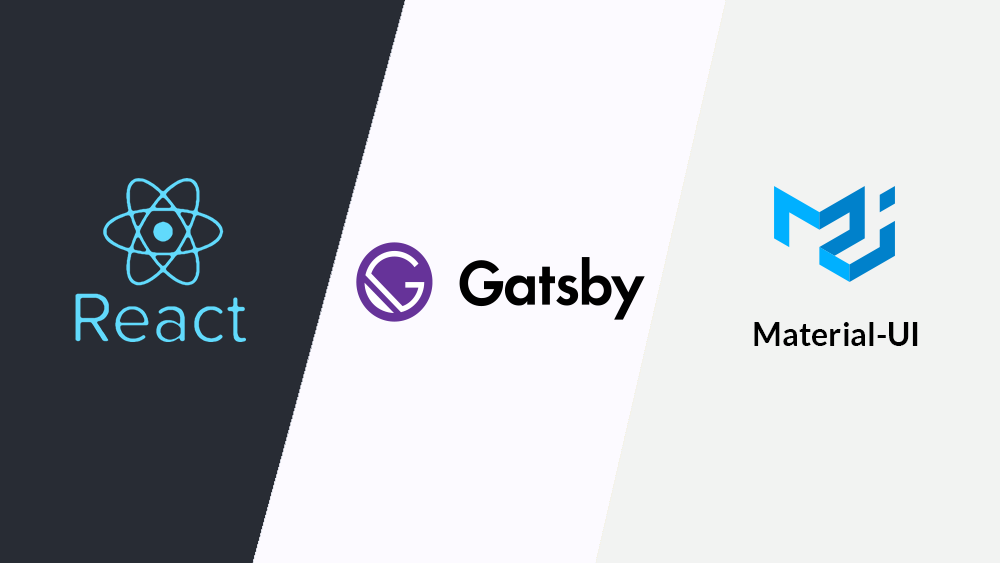
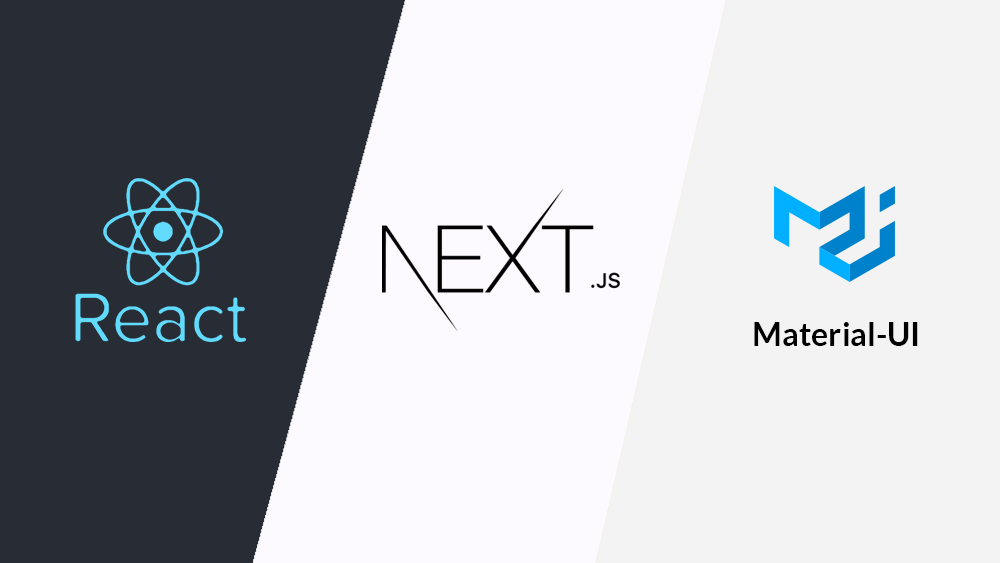
Replace card4 image

Changed region(s): [[0.341, 0.3623, 0.651, 0.5737]]

diff --git a/pages/index.js b/pages/index.js
@@ -141,7 +141,7 @@ export default function HomePage() {
 
         <Section id="projects" title="PROJECTS">
           <Typography variant="h4" sx={{ textAlign: 'left', fontFamily: 'Lora' }}>
-            - Recent project
+            {'Recent projects'}
           </Typography>
           <Box sx={{ marginBottom: 4 }} />
           <Paper elevation={4} className={classes.sectionPaper}>
@@ -159,7 +159,7 @@ export default function HomePage() {
           </Paper>
           <Box sx={{ marginBottom: 8 }} />
           <Typography variant="h4" sx={{ textAlign: 'left', fontFamily: 'Lora' }}>
-            - Old projects
+            {'Old projects'}
           </Typography>
           <Box sx={{ marginBottom: 4 }} />
 

diff --git a/components/Footer.js b/components/Footer.js
@@ -22,7 +22,10 @@ export default function Footer({ texts }) {
         <Box sx={{ marginBottom: 2 }} />
         <Box sx={{ textAlign: 'center' }}>
           <Typography variant="body1" display="inline">
-            {'Built with Next.js & Material-UI: '}
+            {'Built with Next.js & Material-UI:'}
+          </Typography>
+          <Typography variant="body1" display="inline" sx={{ whiteSpace: 'pre' }}>
+            {'  '}
           </Typography>
           <a
             href={'https://github.com/hyeonhong/portfolio-site'}

diff --git a/contents/projects.js b/contents/projects.js
@@ -22,8 +22,7 @@ export default [
   },
   {
     heading: 'Portfolio Website',
-    content:
-      'Built with React, GatsbyJS, Material-UI. Blog contents are implemented with GraphQL, Markdown.',
+    content: 'Built with React, Next.js, Material-UI. Blog contents are implemented with MDX.',
     imageSrc: '/assets/images/card4.png',
     gitSrc: 'https://github.com/hyeonhong/portfolio-site'
   },
